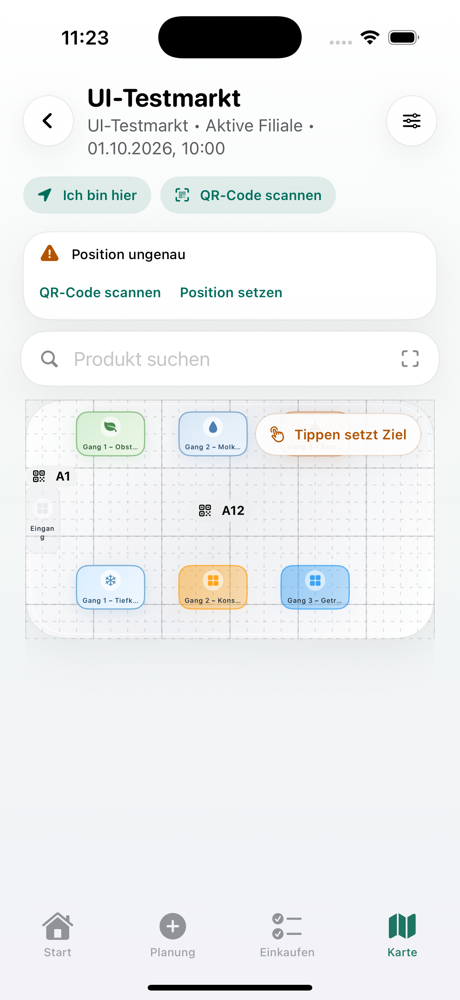
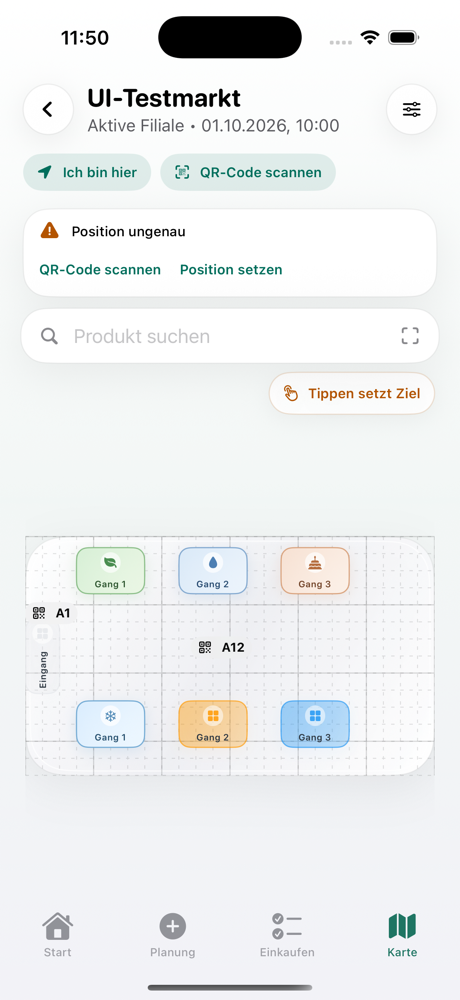
docs(ios): retake map screenshots after the review fixes

diff --git a/docs/polish/ios/README.md b/docs/polish/ios/README.md
@@ -29,3 +29,10 @@ available locally) against the mock API `scripts/dev/mock_mobile_api.py`.
 - The app forces light appearance (`ContentView.preferredColorScheme(.light)`). This is unchanged.
 - Not exercised in the simulator: AR navigation (needs a device), camera scanner, permission banner,
   upsell sheet, study mode, list transfer sheets.
+
+## Map follow-up
+`after/se-map.png` and `after/16pro-map.png` show the map after the review fixes (short shelf labels,
+upright entrance label, tap hint above the map, subtitle without the store name, centred map, no meter
+axis labels). `after/se-map-ax.png` and `after/se-tour*.png` predate these map fixes.
+Shelf tiles show only the aisle, so two tiles can read "Gang 1"; colour and, on larger screens, the
+icon tell them apart.
